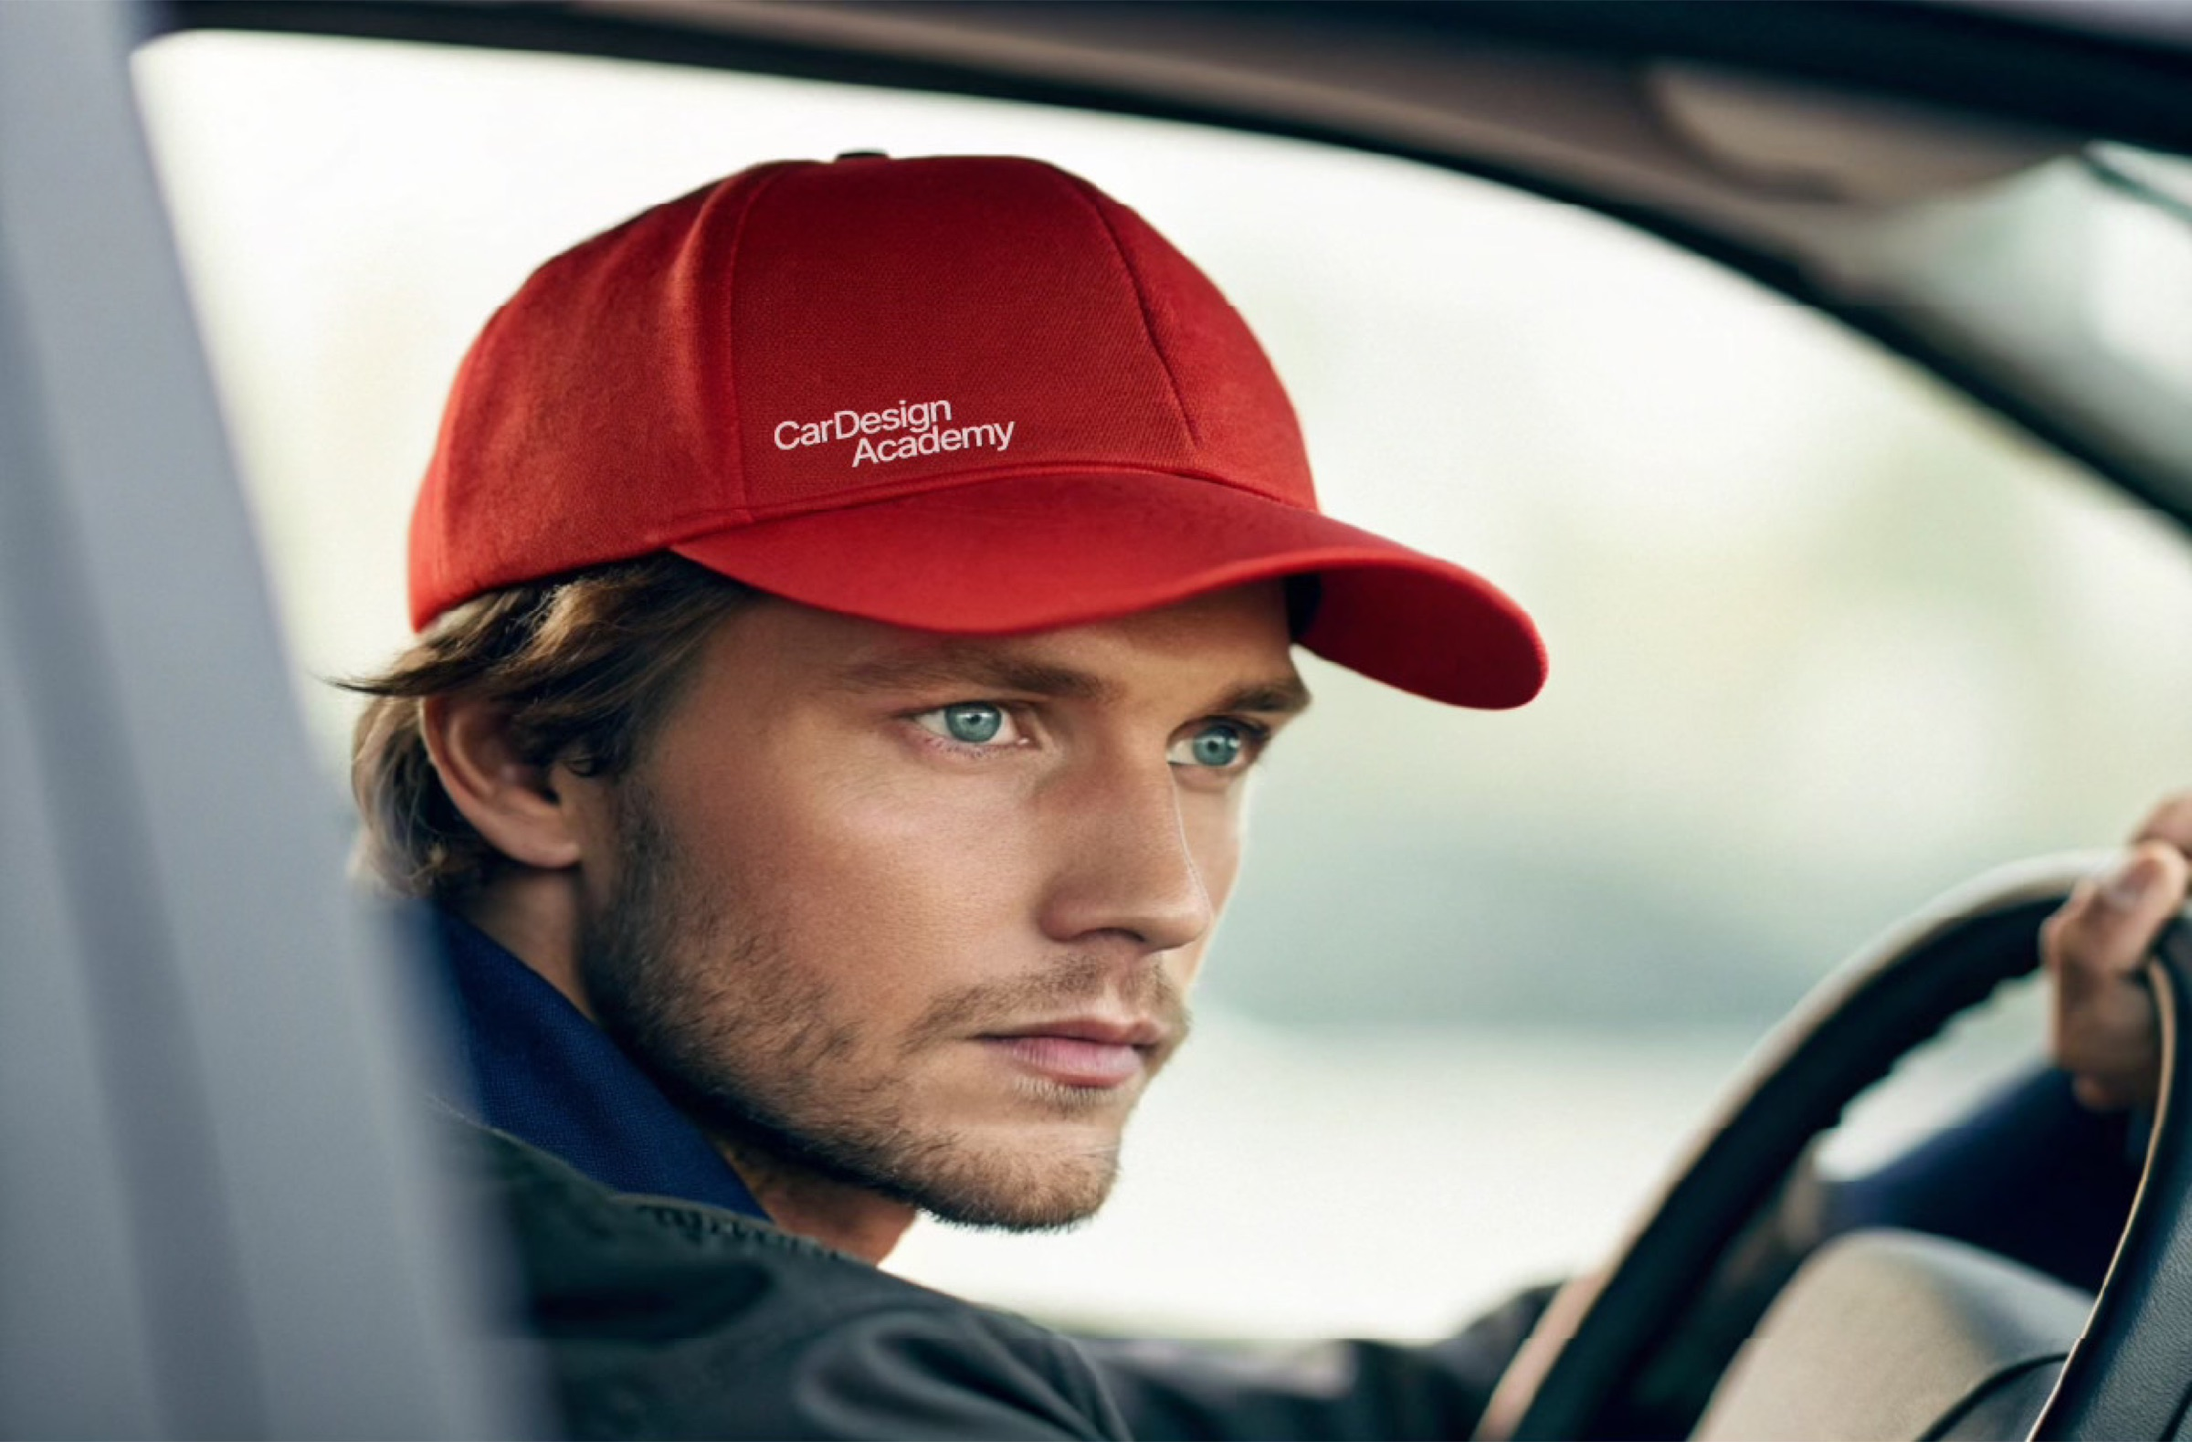
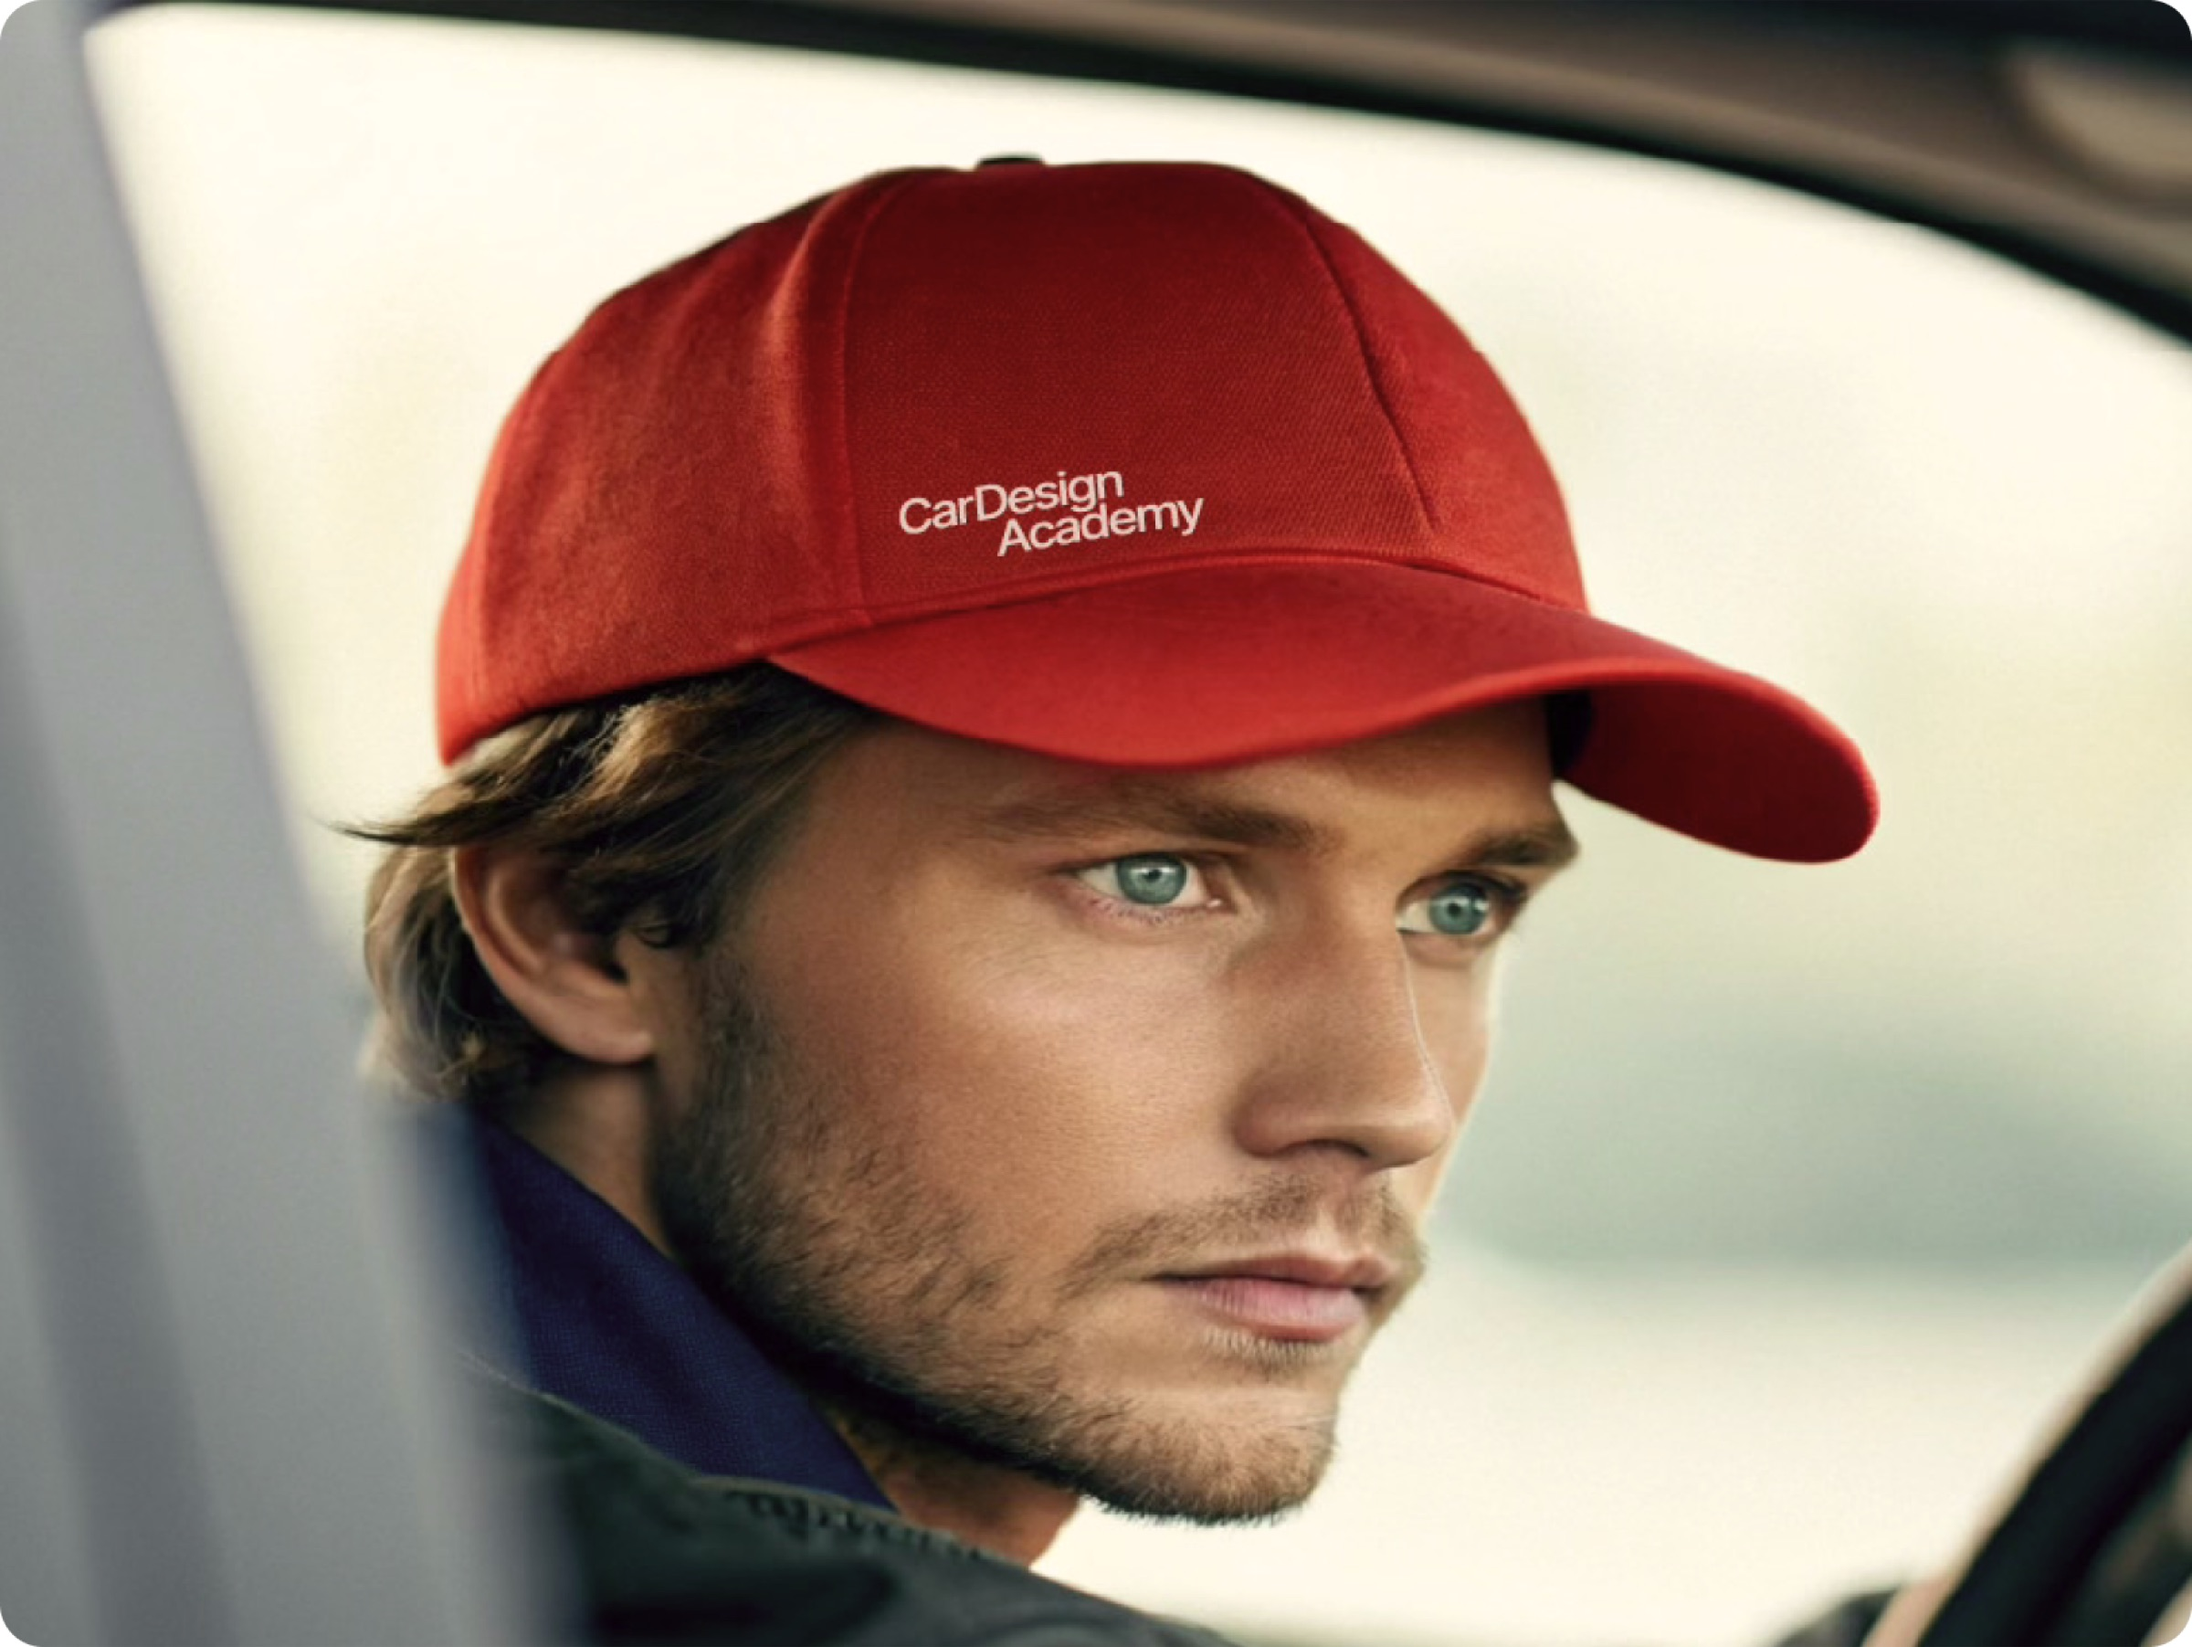
Update page to simplified flat-image Figma frame (3133-1037)
- Revert hero tagline to "scales digital products through the power of pattern"
- Replace CSS composite mockups (CDA phone, GM onboarding phone, Scout blur) with flat exported images
- Add new images: cda-website, cda-socials (flat), scout-center-display, gm-purchase-onboarding, gm-flow, gm-architecture
- Remove unused CSS: .dark-blur, .cda-phone, .gm-onboarding-phone, .hazel-ext-overlay
- Remove hazel exterior overlay (now a single flat image)
- Refresh all images from new Figma frame, compress Hazel photos

diff --git a/index.html b/index.html
@@ -427,98 +427,6 @@
       background: radial-gradient(ellipse at 65% 19%, #3c3c3c 0%, #232323 40%, #171717 70%, #0a0a0a 100%);
     }
 
-    .dark-blur {
-      position: absolute;
-      inset: -8% -8%;
-      filter: blur(17px);
-      transform: scale(1.1);
-    }
-
-    .dark-blur img {
-      width: 100%;
-      height: 100%;
-      object-fit: cover;
-      opacity: 0.7;
-    }
-
-    /* ─── CDA PHONE MOCKUP ─── */
-    .cda-phone {
-      position: absolute;
-      left: 69%;
-      top: 6.5%;
-      width: 11.6%;
-      height: 68%;
-      background: white;
-      border-radius: 8px;
-      box-shadow: -40px 34px 84px rgba(0,0,0,0.5);
-      overflow: hidden;
-      display: flex;
-      flex-direction: column;
-    }
-
-    .cda-phone-promo {
-      background: #cc3600;
-      padding: 3% 6%;
-      font-family: 'Inter', sans-serif;
-      font-size: clamp(5px, 0.65vw, 9px);
-      color: #e7eae9;
-      white-space: nowrap;
-      overflow: hidden;
-      text-overflow: ellipsis;
-      flex-shrink: 0;
-      letter-spacing: -0.03em;
-    }
-
-    .cda-phone-body {
-      background: #0a0a0a;
-      flex: 1;
-      padding: 10%;
-      overflow: hidden;
-    }
-
-    .cda-phone-body img {
-      width: 100%;
-      object-fit: contain;
-    }
-
-    /* ─── GM ONBOARDING PHONE ─── */
-    .gm-onboarding-phone {
-      position: absolute;
-      left: 10%;
-      top: 7%;
-      width: 23%;
-      bottom: -40%;
-      background: black;
-      border-radius: 24px;
-      box-shadow: 0px 24px 44px 30px rgba(0,0,0,0.25);
-      overflow: hidden;
-    }
-
-    .gm-onboarding-phone img {
-      position: absolute;
-      top: 57px;
-      width: 100%;
-      object-fit: cover;
-    }
-
-    /* ─── HAZEL EXTERIOR OVERLAY ─── */
-    .hazel-ext-overlay {
-      position: absolute;
-      bottom: 32px;
-      left: 32px;
-      width: 232px;
-      height: 154px;
-      border-radius: 10px;
-      overflow: hidden;
-      box-shadow: -40px 34px 94px rgba(0,0,0,0.2);
-    }
-
-    .hazel-ext-overlay img {
-      width: 100%;
-      height: 100%;
-      object-fit: cover;
-    }
-
     /* ─── RESPONSIVE ─── */
     @media (max-width: 1024px) {
       .img-row { grid-template-columns: 1fr; }
@@ -545,7 +453,7 @@
     <div class="nav-left">
       <div class="nav-text">
         <p class="nav-headline">
-          <span class="name">Amy Stoddard </span><span class="desc">is a design leader who builds systems at scale — keeping patterns simple, replicable.</span>
+          <span class="name">Amy Stoddard </span><span class="desc">is a design leader who scales digital products through the power of pattern.</span>
         </p>
         <a href="mailto:aimelise@gmail.com" class="nav-cta">Let's work together.</a>
       </div>
@@ -592,7 +500,7 @@
     <!-- Logo + Hat -->
     <div class="img-row">
       <div class="img-cell h610">
-        <img src="images/cda-logo.png" alt="Car Design Academy logo">
+        <img src="images/cda-logo.jpg" alt="Car Design Academy logo">
       </div>
       <div class="img-cell h610">
         <img src="images/cda-hat.jpg" alt="Car Design Academy hat">
@@ -601,13 +509,8 @@
 
     <!-- CDA Website -->
     <div class="img-row single">
-      <div class="img-cell h610-full dark-composite">
-        <div class="cda-phone">
-          <div class="cda-phone-promo">Our Gravity Sketch 6-Week Intensive starts January 15, 2025. Get details.</div>
-          <div class="cda-phone-body">
-            <img src="images/cda-phone-logo.png" alt="Car Design Academy">
-          </div>
-        </div>
+      <div class="img-cell h610-full">
+        <img src="images/cda-website.jpg" alt="Car Design Academy website">
       </div>
     </div>
 
@@ -620,11 +523,11 @@
 
     <!-- Socials + Why CDA -->
     <div class="img-row">
-      <div class="img-cell h610 dark-composite">
-        <img src="images/cda-socials.png" alt="CarDesign.Academy socials" style="position:absolute;left:50%;top:-91px;transform:translateX(-50%);width:auto;height:auto;object-fit:none;">
+      <div class="img-cell h610">
+        <img src="images/cda-socials.jpg" alt="CarDesign.Academy socials">
       </div>
-      <div class="img-cell h610 dark-composite">
-        <img src="images/cda-why.jpg" alt="Why Car Design Academy" style="position:absolute;left:50%;top:50%;transform:translate(-50%,-50%);width:135%;height:100%;object-fit:cover;">
+      <div class="img-cell h610">
+        <img src="images/cda-why.jpg" alt="Why Car Design Academy">
       </div>
     </div>
 
@@ -650,20 +553,18 @@
 
     <!-- Center display full-width -->
     <div class="img-row single">
-      <div class="img-cell h610-full dark-composite"></div>
+      <div class="img-cell h610-full dark-composite">
+        <img src="images/scout-center-display.jpg" alt="Scout Motors center display">
+      </div>
     </div>
 
     <!-- Dynamics + Connectivity apps -->
     <div class="img-row">
       <div class="img-cell h610 dark-composite">
-        <div class="dark-blur">
-          <img src="images/scout-dynamics-bg.jpg" alt="">
-        </div>
+        <img src="images/scout-dynamics-bg.jpg" alt="Scout Motors dynamics app">
       </div>
-      <div class="img-cell h610 dark-composite">
-        <div class="dark-blur">
-          <img src="images/scout-connectivity-bg.jpg" alt="">
-        </div>
+      <div class="img-cell h610">
+        <img src="images/scout-connectivity-bg.jpg" alt="Scout Motors connectivity manager">
       </div>
     </div>
 
@@ -711,17 +612,19 @@
 
     <!-- Purchase onboarding full-width -->
     <div class="img-row single">
-      <div class="img-cell h610-full dark-composite">
-        <div class="gm-onboarding-phone">
-          <img src="images/gm-cadillac.jpg" alt="Cadillac LYRIQ">
-        </div>
+      <div class="img-cell h610-full">
+        <img src="images/gm-purchase-onboarding.jpg" alt="General Motors purchase onboarding">
       </div>
     </div>
 
     <!-- Onboarding flow + vehicle overview architecture -->
     <div class="img-row">
-      <div class="img-cell h610" style="background: #dcdcdc;"></div>
-      <div class="img-cell h610" style="background: #d9d9d9;"></div>
+      <div class="img-cell h610" style="background: #dcdcdc;">
+        <img src="images/gm-flow.jpg" alt="General Motors onboarding flow">
+      </div>
+      <div class="img-cell h610" style="background: #d9d9d9;">
+        <img src="images/gm-architecture.jpg" alt="General Motors vehicle overview architecture">
+      </div>
     </div>
 
   </section>
@@ -748,9 +651,6 @@
     <div class="img-row single">
       <div class="img-cell h780-full">
         <img src="images/hazel-exterior.jpg" alt="Hazel House exterior">
-        <div class="hazel-ext-overlay">
-          <img src="images/hazel-exterior-overlay.jpg" alt="">
-        </div>
       </div>
     </div>
 
